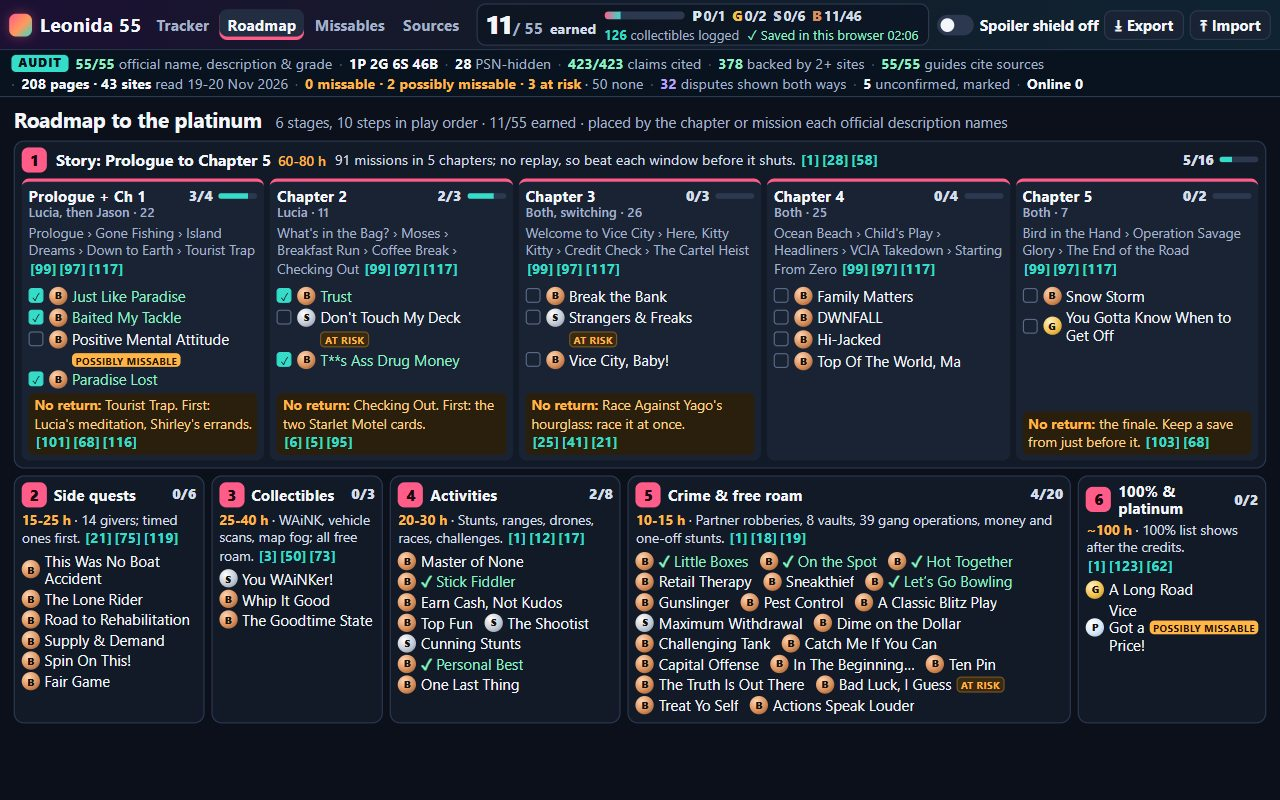
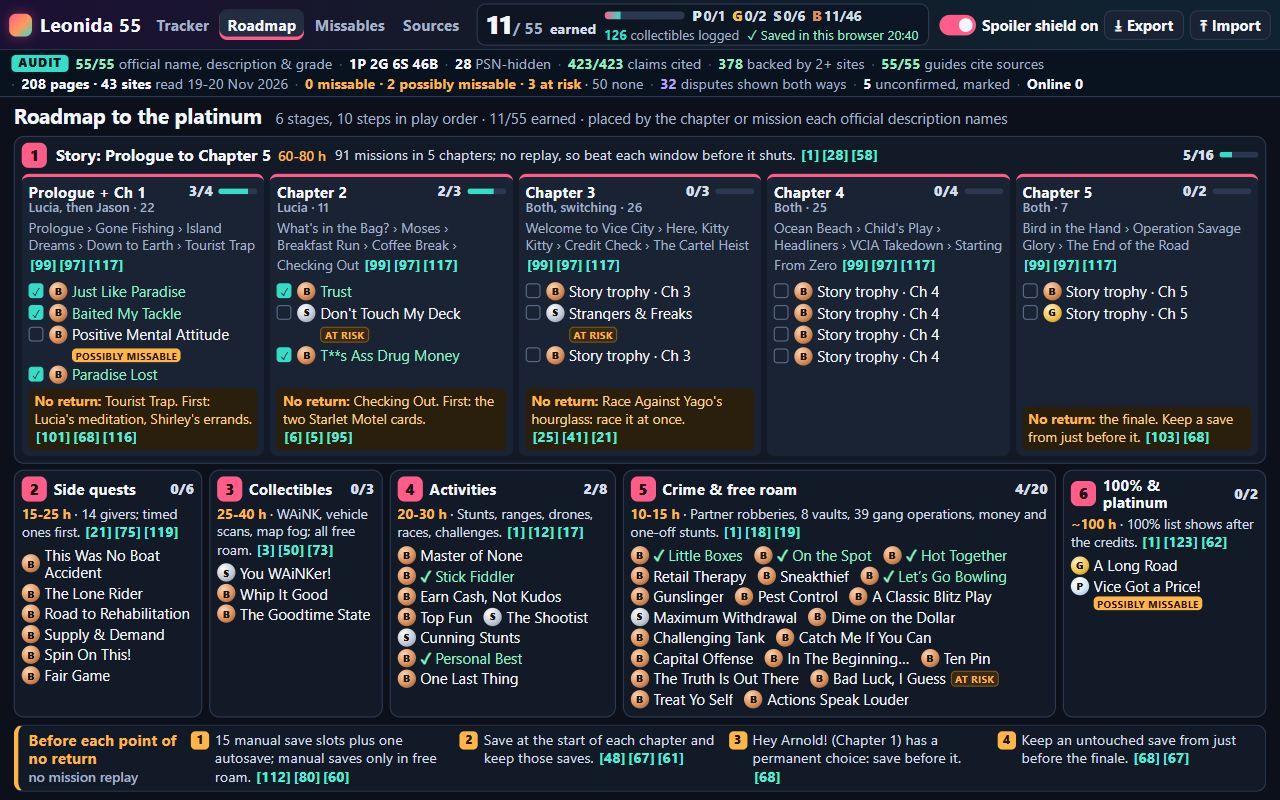
Leonida 55 v5: whole items on every shot, shield on throughout, roadmap and missables fill their frames
- Screenshots: tools/shoot.mjs keeps the spoiler shield on in all 4 shots (and
  fails if it is off), and ends every pane on a complete item: a row, step,
  card or matrix row the bottom edge would cut is left out and the spare
  height is shared between the items that remain.
- Cover: 8 list rows, 6 whole guide steps and 4 whole source cards (columns
  344/1fr/232, tighter guide spacing); "N src" tags and [n] marks brighter and
  readable at 768x480.
- Roadmap: shield on (later story trophies show as placeholders); the
  100% & platinum card is wider and puts the platinum's badge on its own line;
  a cited "Before each point of no return" strip fills the bottom.
- Missables: compact timeline sized to its content, the optional call shown
  in full as a quoted title, quiet chapters say no trophy window closes there,
  and the save plan sits in the card grid so both card rows are whole.
- Sources: a legend explains the matrix columns (trophies #1-#55 in roadmap
  order, hover for the name), rows and dots; wider site-name column.
- Smoke test: 63 checks (shield on in every shot, the roadmap strip, the
  full optional call title, the save plan cell, the matrix legend).

diff --git a/app/css/app.css b/app/css/app.css
@@ -122,17 +122,17 @@ h2, h3, h4 { margin: 0; }
 .badge.cited { background: #0f3330; color: #8ff0c4; border: 1px solid #1f6158; }
 .tag { font-style: normal; font-size: 11px; color: var(--soft); background: var(--panel-3); border-radius: 4px; padding: 0 5px; white-space: nowrap; }
 .tag.count { color: var(--teal); font-weight: 700; }
-.tag.src { color: #8ff0c4; }
+.tag.src { color: #b4ffe0; background: #124038; border: 1px solid #23735f; font-weight: 700; font-size: 11.5px; }
 .cites { white-space: nowrap; }
 .cite {
-  background: none; border: 0; padding: 0 1px; color: var(--teal); font-weight: 700; font-size: 12.5px; cursor: pointer;
+  background: none; border: 0; padding: 0 1px; color: #4ff0da; font-weight: 750; font-size: 12.5px; cursor: pointer;
 }
 .cite:hover { text-decoration: underline; }
 
 /* Tracker: three panes */
 #app { flex: 1; min-height: 0; }
 .view { height: 100%; }
-.three-pane { display: grid; grid-template-columns: 348px minmax(0, 1fr) 240px; }
+.three-pane { display: grid; grid-template-columns: 344px minmax(0, 1fr) 232px; }
 #list-pane { display: flex; flex-direction: column; min-height: 0; border-right: 1px solid var(--line); background: var(--panel); }
 #filters { padding: 5px 7px 5px; border-bottom: 1px solid var(--line); display: grid; grid-template-columns: minmax(0, 1fr); gap: 3px; background: #101827; }
 .chip-row { display: flex; flex-wrap: wrap; gap: 3px; align-items: center; }
@@ -191,8 +191,8 @@ h2, h3, h4 { margin: 0; }
 .empty { padding: 16px; color: var(--muted); }
 
 /* Guide pane */
-#guide-panel { overflow-y: auto; padding: 7px 11px 14px; min-height: 0; }
-.guide-head { display: grid; grid-template-columns: 30px 1fr auto; gap: 3px 9px; align-items: start; padding-bottom: 5px; }
+#guide-panel { overflow-y: auto; padding: 5px 11px 14px; min-height: 0; }
+.guide-head { display: grid; grid-template-columns: 30px 1fr auto; gap: 2px 9px; align-items: start; padding-bottom: 3px; }
 .guide-head > .medal { margin-top: 2px; }
 .guide-head > .medal { width: 30px; height: 30px; font-size: 14px; }
 .guide-title h2 { font-size: 20px; line-height: 1.15; }
@@ -200,7 +200,7 @@ h2, h3, h4 { margin: 0; }
 .earned-controls { display: flex; flex-direction: column; align-items: stretch; gap: 4px; }
 .earn-button { background: var(--panel-3); color: var(--text); border: 1px solid var(--line); border-radius: 7px; padding: 3px 10px; font-weight: 700; font-size: 13px; }
 .earn-button.on { background: #14453c; border-color: var(--teal); color: #8ff0c4; }
-.counter { grid-column: 2 / 4; display: flex; align-items: center; gap: 6px; font-size: 13px; color: var(--soft); background: #0f2a2a; border: 1px solid #1f6158; border-radius: 7px; padding: 2px 8px; }
+.counter { grid-column: 2 / 4; display: flex; align-items: center; gap: 6px; font-size: 13px; color: var(--soft); background: #0f2a2a; border: 1px solid #1f6158; border-radius: 7px; padding: 1px 8px; }
 .counter-label { font-size: 11px; font-weight: 800; text-transform: uppercase; letter-spacing: .07em; color: #8ff0c4; }
 .counter-value b { color: var(--teal); font-size: 16px; }
 .counter button { width: 21px; height: 21px; border-radius: 5px; border: 1px solid #1f6158; background: var(--panel-2); color: var(--text); padding: 0; line-height: 1; font-weight: 800; }
@@ -214,7 +214,7 @@ h2, h3, h4 { margin: 0; }
 .official-box h3 small, .note h3 small, .how-to h3 small { text-transform: none; letter-spacing: 0; font-weight: 500; font-size: 12px; color: var(--muted); }
 .official { margin: 0; font-size: 15px; font-weight: 600; color: var(--text); line-height: 1.3; }
 .badges { display: flex; flex-wrap: wrap; gap: 3px 4px; margin: 3px 0 0; }
-.note { border-radius: 7px; padding: 4px 9px 5px; margin-top: 5px; border: 1px solid var(--line); font-size: 13.5px; line-height: 1.32; }
+.note { border-radius: 7px; padding: 4px 9px 5px; margin-top: 4px; border: 1px solid var(--line); font-size: 13.5px; line-height: 1.32; }
 .note p { margin: 1px 0 0; }
 .note.window.missable { background: #2a1214; border-color: #8a3a35; }
 .note.window.missable h3 { color: #ff9b91; }
@@ -228,9 +228,9 @@ h2, h3, h4 { margin: 0; }
 .side i { font-style: normal; font-weight: 800; color: #1a1430; background: var(--violet); border-radius: 3px; padding: 0 4px; margin-right: 5px; font-size: 11px; }
 .call b { color: var(--violet); }
 .note.unconfirmed { background: #182030; border-style: dashed; }
-.how-to { margin-top: 6px; }
+.how-to { margin-top: 4px; }
 .steps { margin: 4px 0 0; padding: 0; list-style: none; counter-reset: step; }
-.steps li { counter-increment: step; position: relative; padding: 2px 0 2px 25px; border-bottom: 1px solid #1d2739; font-size: 13.5px; line-height: 1.32; }
+.steps li { counter-increment: step; position: relative; padding: 1.5px 0 1.5px 25px; border-bottom: 1px solid #1d2739; font-size: 13.5px; line-height: 1.32; }
 .steps li::before {
   content: counter(step); position: absolute; left: 0; top: 3px; width: 18px; height: 18px; border-radius: 50%;
   background: var(--accent); color: #1a0710; font-weight: 800; font-size: 11.5px; display: grid; place-items: center;
@@ -263,8 +263,8 @@ h2, h3, h4 { margin: 0; }
 }
 
 /* Shared view header */
-.view:not(.three-pane) { overflow-y: auto; padding: 8px 12px 16px; }
-.view-head { display: flex; align-items: baseline; gap: 12px; margin-bottom: 5px; }
+.view:not(.three-pane) { overflow-y: auto; padding: 5px 12px 16px; }
+.view-head { display: flex; align-items: baseline; gap: 12px; margin-bottom: 4px; }
 .view-head h2 { font-size: 18px; white-space: nowrap; }
 .view-head p { margin: 0; color: var(--muted); font-size: 13px; }
 
@@ -287,7 +287,7 @@ h2, h3, h4 { margin: 0; }
 .missions { margin: 0; font-size: 12px; color: var(--muted); line-height: 1.3; }
 .chapter-warn { margin: auto 0 0; font-size: 12px; color: #ffd08a; line-height: 1.3; background: #2a1e0d; border-radius: 5px; padding: 3px 5px; }
 .chapter-warn b { color: var(--warn); }
-.stage-cols { list-style: none; margin: 6px 0 0; padding: 0; display: grid; grid-template-columns: 1.04fr 0.94fr 1.26fr 2.42fr 0.86fr; gap: 6px; align-items: stretch; }
+.stage-cols { list-style: none; margin: 5px 0 0; padding: 0; display: grid; grid-template-columns: 1fr 0.92fr 1.2fr 2.3fr 1.08fr; gap: 6px; align-items: stretch; }
 .stage-col { background: var(--panel); border: 1px solid var(--line); border-radius: var(--radius); padding: 5px 6px 6px; }
 .stage-col header { display: grid; grid-template-columns: 22px 1fr auto; gap: 6px; align-items: center; }
 .stage-col h3 { white-space: nowrap; overflow: hidden; line-height: 1.15; }
@@ -295,6 +295,10 @@ h2, h3, h4 { margin: 0; }
 .road-trophies { list-style: none; margin: 3px 0 0; padding: 0; display: grid; gap: 1px; }
 .stage-col .road-trophies { display: flex; flex-wrap: wrap; gap: 0 10px; }
 .stage-col .road-trophies li { flex: none; max-width: 100%; }
+/* The last card is narrow: a flagged trophy keeps its name on one line and its badge on the next, under the name. */
+.stage-col:last-child .road-trophies li:has(.badge) { display: grid; grid-template-columns: 16px minmax(0, 1fr); column-gap: 4px; row-gap: 1px; }
+.stage-col:last-child .road-trophies li:has(.badge) .badge { grid-column: 2; justify-self: start; }
+.stage-col:last-child .road-trophies .road-name { white-space: normal; }
 .stage-col .road-name { flex: 0 1 auto; white-space: nowrap; overflow: hidden; text-overflow: ellipsis; }
 .road-trophies .road-name { white-space: normal; flex: 1 1 0; line-height: 1.2; }
 .stage-col .tick { display: none; }
@@ -314,15 +318,17 @@ h2, h3, h4 { margin: 0; }
 li.earned .tick { background: var(--teal); border-color: var(--teal); }
 
 /* Missables */
-.timeline { list-style: none; margin: 0 0 7px; padding: 0; display: grid; grid-template-columns: repeat(6, 1fr); gap: 4px; }
-.timeline li { background: var(--panel); border: 1px solid var(--line); border-top: 3px solid var(--line); border-radius: 6px; padding: 4px 6px; min-height: 66px; display: flex; flex-direction: column; gap: 3px; }
+.timeline { list-style: none; margin: 0 0 7px; padding: 0; display: grid; grid-template-columns: 1.7fr 1fr 1fr 1fr 1fr 1fr; gap: 4px; align-items: stretch; }
+.timeline li { background: var(--panel); border: 1px solid var(--line); border-top: 3px solid var(--line); border-radius: 6px; padding: 4px 6px; display: flex; flex-wrap: wrap; align-content: flex-start; gap: 3px; }
+.timeline li > b, .timeline li > small { flex: 1 0 100%; }
 .timeline li.has { border-top-color: var(--warn); }
 .timeline b { font-size: 12.5px; color: var(--soft); }
-.pin { font-size: 11.5px; font-weight: 700; padding: 1px 5px; border-radius: 4px; line-height: 1.25; }
+.pin { font-size: 11.5px; font-weight: 700; padding: 1px 5px; border-radius: 4px; line-height: 1.25; max-width: 100%; }
+.pin i { font-style: normal; color: var(--muted); font-size: 10.5px; text-transform: uppercase; letter-spacing: .03em; }
 .pin.missable { background: var(--danger); color: #1b0606; }
 .pin.possible { background: var(--warn); color: #231502; }
 .pin.risk { background: #3b2a12; color: var(--warn); border: 1px solid #7a5520; }
-.pin.other { background: var(--panel-3); color: var(--muted); font-weight: 500; }
+.pin.other { background: var(--panel-3); color: var(--soft); font-weight: 500; }
 .pin .cite { font-size: 10.5px; }
 .missable-grid { display: grid; grid-template-columns: repeat(3, minmax(0, 1fr)); gap: 7px; }
 .missable-card { background: var(--panel); border: 1px solid var(--line); border-left: 4px solid var(--warn); border-radius: 8px; padding: 6px 9px; cursor: pointer; }
@@ -337,15 +343,17 @@ li.earned .tick { background: var(--teal); border-color: var(--teal); }
 .missable-card dd.ponr { color: #ffd08a; }
 .ponr-note { margin-top: auto; font-size: 11.5px; line-height: 1.25; color: #ffd08a; }
 .ponr-note.safe { color: #8ff0c4; }
-.missable-foot { display: grid; grid-template-columns: 1.15fr 1fr; gap: 8px; margin-top: 8px; }
+.ponr-note.quiet { color: var(--muted); margin-top: 0; }
 .safe-list, .save-plan { background: var(--panel); border: 1px solid var(--line); border-radius: 8px; padding: 6px 9px; }
-.safe-list { border-left: 4px solid var(--teal); }
+.safe-list { border-left: 4px solid var(--teal); margin-top: 7px; }
+.safe-list ul { grid-template-columns: 1fr 1fr; column-gap: 14px; }
 .safe-list h3, .save-plan h3 { font-size: 13.5px; display: flex; gap: 8px; align-items: baseline; margin-bottom: 3px; }
 .safe-list h3 small, .save-plan h3 small { color: var(--muted); font-weight: 500; font-size: 12px; }
 .safe-list ul { list-style: none; margin: 0; padding: 0; display: grid; gap: 2px; }
 .safe-list li { font-size: 13px; line-height: 1.3; color: var(--soft); cursor: pointer; }
 .safe-list li .medal { width: 16px; height: 16px; font-size: 9px; margin-right: 4px; vertical-align: -3px; }
 .safe-list li b { color: #8ff0c4; }
+.missable-grid .save-plan { border-left: 4px solid var(--teal); }
 .save-plan ol { margin: 0; padding-left: 18px; display: grid; gap: 2px; font-size: 13px; line-height: 1.3; color: var(--soft); }
 
 /* Sources */
@@ -354,10 +362,12 @@ li.earned .tick { background: var(--teal); border-color: var(--teal); }
 .total b { font-size: 19px; color: #8ff0c4; line-height: 1.1; }
 .total span { font-size: 12.5px; font-weight: 650; }
 .total small { font-size: 11.5px; color: var(--muted); }
+.matrix-legend { margin: 0 0 4px; font-size: 12.5px; color: var(--muted); }
+.matrix-legend b { color: var(--soft); }
 .matrix-wrap { border: 1px solid var(--line); border-radius: 8px; overflow: hidden; background: var(--panel); }
 .matrix { border-collapse: collapse; width: 100%; table-layout: fixed; }
 .matrix th, .matrix td { padding: 0; text-align: center; }
-.matrix .src-col { width: 122px; text-align: left; padding: 0 6px; font-size: 12.5px; white-space: nowrap; overflow: hidden; text-overflow: ellipsis; }
+.matrix .src-col { width: 138px; text-align: left; padding: 0 6px; font-size: 12.5px; white-space: nowrap; overflow: hidden; text-overflow: ellipsis; }
 .matrix .num-col { width: 104px; font-size: 12px; color: var(--muted); white-space: nowrap; }
 .matrix .num-col b { color: var(--text); }
 .matrix thead th { font-size: 9px; color: var(--muted); padding: 3px 0; border-bottom: 1px solid var(--line); }
@@ -384,3 +394,11 @@ li.earned .tick { background: var(--teal); border-color: var(--teal); }
 .steps li.multi::before { background: var(--teal); color: #06221d; }
 .multi-key { color: #8ff0c4; font-weight: 700; }
 .multi-key::before { content: ""; display: inline-block; width: 9px; height: 9px; border-radius: 50%; background: var(--teal); margin-right: 4px; }
+
+/* Roadmap: the save routine strip under the stages */
+.road-checklist { display: grid; grid-template-columns: 132px minmax(0, 1fr); gap: 10px; align-items: start; margin-top: 6px; background: var(--panel); border: 1px solid var(--line); border-left: 4px solid var(--warn); border-radius: var(--radius); padding: 4px 9px 5px; }
+.road-checklist h3 { font-size: 13.5px; display: flex; flex-direction: column; gap: 1px; line-height: 1.2; color: var(--warn); }
+.road-checklist h3 small { color: var(--muted); font-weight: 500; font-size: 12px; }
+.road-checklist ol { margin: 0; padding: 0; list-style: none; counter-reset: save; display: grid; grid-template-columns: repeat(4, minmax(0, 1fr)); gap: 10px; }
+.road-checklist li { counter-increment: save; position: relative; padding-left: 21px; font-size: 12.5px; line-height: 1.28; color: var(--soft); }
+.road-checklist li::before { content: counter(save); position: absolute; left: 0; top: 1px; width: 16px; height: 16px; border-radius: 4px; background: var(--warn); color: #231502; font-weight: 800; font-size: 10.5px; display: grid; place-items: center; }

diff --git a/app/js/missables-view.js b/app/js/missables-view.js
@@ -1,6 +1,6 @@
 // The missables view: a timeline of points of no return by chapter, one card per missable, possibly missable or
 // at-risk trophy (why, point of no return, what to do first, all cited), then the trophies checked and found safe and
-// the save plan that protects every window. Loaded on demand by import().
+// the save plan that protects every window (beside the cards). Loaded on demand by import().
 import { h } from './dom.js';
 import { displayName, displayDescription } from './spoilers.js';
 import { renderCiteMarks, renderMedal } from './citations.js';
@@ -22,13 +22,15 @@ export function renderMissablesView(root, ctx) {
       h('p', null, `${flagged.length} flagged: ${count('missable')} missable, ${count('possible')} possibly missable, ${count('risk')} at risk; the other ${data.trophies.length - flagged.length} checked and none. `,
         intro.text, ' ', renderCiteMarks(intro.cite, ctx))),
     renderMissableTimeline(flagged, ctx),
-    h('div', { class: 'missable-grid' }, flagged.map((t) => renderMissableCard(t, ctx))),
-    h('div', { class: 'missable-foot' },
-      renderSafeList(ctx),
-      h('section', { class: 'save-plan' },
-        h('h3', null, 'Save plan', h('small', null, 'no mission replay, no New Game+')),
-        h('ol', null, (data.roadmap.savePlan ?? []).map((p) => h('li', null, p.text, ' ', renderCiteMarks(p.cite, ctx)))))),
+    h('div', { class: 'missable-grid' }, flagged.map((t) => renderMissableCard(t, ctx)), renderSavePlan(ctx)),
+    renderSafeList(ctx),
   );
+}
+
+function renderSavePlan(ctx) {
+  return h('section', { class: 'save-plan' },
+    h('h3', null, 'Save plan', h('small', null, 'no mission replay, no New Game+')),
+    h('ol', null, (ctx.data.roadmap.savePlan ?? []).map((p) => h('li', null, p.text, ' ', renderCiteMarks(p.cite, ctx)))));
 }
 
 function renderMissableTimeline(flagged, ctx) {
@@ -41,9 +43,11 @@ function renderMissableTimeline(flagged, ctx) {
     return h('li', { class: here.length ? 'has' : '' },
       h('b', null, label),
       here.map((t) => h('span', { class: `pin ${t.missable.level}` }, displayName(t, ctx.store))),
-      otherMissables.filter((m) => m.ch === i).map((m) => h('span', { class: 'pin other', title: 'Time-limited; no trophy needs it' }, m.name, ' ', renderCiteMarks(m.cite, ctx))),
+      otherMissables.filter((m) => m.ch === i).map((m) => h('span', { class: 'pin other', title: 'Time-limited; no trophy needs it' },
+        m.kind ? [h('i', null, `${m.kind} `), `“${m.name}”`] : m.name, ' ', renderCiteMarks(m.cite, ctx))),
       group?.ponr && h('small', { class: 'ponr-note' }, 'No return: ', group.ponr.text),
-      i === 6 && h('small', { class: 'ponr-note safe' }, 'Free roam resumes before the finale; everything else stays open.'));
+      i === 6 && h('small', { class: 'ponr-note safe' }, 'Free roam resumes before the finale; everything else stays open.'),
+      !here.length && !group?.ponr && i !== 6 && h('small', { class: 'ponr-note quiet' }, 'No trophy window closes here.'));
   }).filter(Boolean));
 }
 

diff --git a/app/js/sources-view.js b/app/js/sources-view.js
@@ -37,7 +37,7 @@ export function renderSourceMatrix(root, ctx) {
   root.replaceChildren(
     h('header', { class: 'view-head' },
       h('h2', null, 'Sources & citation matrix'),
-      h('p', null, `${s.pages} pages from ${s.sites} sites, each fetched and read ${data.readOn}; facts rewritten in our own words. A dot: that guide cites the site (brighter = more claims). Columns in roadmap order.`)),
+      h('p', null, `${s.pages} pages from ${s.sites} sites, each fetched and read ${data.readOn}; facts rewritten in our own words. A dot: that guide cites the site (brighter = more claims).`)),
     h('div', { class: 'totals' },
       total('claims cited', `${s.claimsCited}/${s.claims}`, 'every numbered step'),
       total('backed by 2+ sites', s.claimsMulti, `${Math.round((s.claimsMulti / s.claims) * 100)}% of claims`),
@@ -45,6 +45,9 @@ export function renderSourceMatrix(root, ctx) {
       total('guides cite sources', `${s.guidesCited}/${s.total}`, 'none uncited'),
       total('disputes shown', s.disputes, `in ${s.disputedTrophies} guides, both sides`),
       total('unconfirmed', s.unconfirmed, 'marked, not guessed')),
+    h('p', { class: 'matrix-legend' },
+      h('b', null, 'Columns:'), ` trophies #1-#${data.trophies.length} (official list number) in roadmap order; hover a number for the name. `,
+      h('b', null, 'Rows:'), ` the ${sites.length} cited sites, most guides first. `, h('b', null, 'Dot:'), ' that guide cites the site, brighter for more claims.'),
     h('div', { class: 'matrix-wrap' },
       h('table', { class: 'matrix' },
         h('thead', null, h('tr', null,

diff --git a/app/js/roadmap-view.js b/app/js/roadmap-view.js
@@ -18,7 +18,16 @@ export function renderRoadmapView(root, ctx) {
       renderStageBand(data.roadmap.stages[0], groupsOf(1), ctx),
       h('ol', { class: 'chapter-cols' }, groupsOf(1).map((g) => renderChapterColumn(g, ctx)))),
     h('ol', { class: 'stage-cols' }, data.roadmap.stages.slice(1).map((s) => renderStageColumn(s, groupsOf(s.id), ctx))),
+    renderSaveChecklist(ctx),
   );
+}
+
+// The cited save routine that keeps every window open (the save plan's steps marked beforeNoReturn), as a strip
+// under the stages.
+function renderSaveChecklist(ctx) {
+  return h('section', { class: 'road-checklist' },
+    h('h3', null, 'Before each point of no return', h('small', null, 'no mission replay')),
+    h('ol', null, (ctx.data.roadmap.savePlan ?? []).filter((p) => p.beforeNoReturn).map((p) => h('li', null, p.text, ' ', renderCiteMarks(p.cite, ctx)))));
 }
 
 function trophiesIn(groups, ctx) {

diff --git a/README.md b/README.md
@@ -16,7 +16,7 @@ node serve.ts   # then open the printed address (static files, no build step, wo
 
 - `app/`: the guide. `index.html`, `css/app.css`, `js/*.js` (one job per module; roadmap, missables and sources views load on demand), `data/trophies.json` (official list + guides, each step's citations), `data/sources.tsv` (the 208 cited pages, one a line), `data/roadmap.json`.
 - `tools/build-data.mjs`: builds `app/data/` from the untouched official list (`tools/official-list.json`) and our guides (`tools/guides.mjs` plus the second-source pass in `tools/backing.mjs`, `tools/sources.mjs` with `tools/sources-added.mjs`, `tools/roadmap.mjs`), refusing any uncited step, one-sided dispute, uncited point of no return or unused page.
-- `tools/shoot.mjs`: takes the 4 screenshots in headless Chrome (1120x700 CSS viewport at scale 8/7, demo progress via `?demo=1`, saved under its own key so it never touches your progress); `tools/smoke-test.mjs`: 54 checks of the tracker in a real browser.
+- `tools/shoot.mjs`: takes the 4 screenshots in headless Chrome (1120x700 CSS viewport at scale 8/7, demo progress via `?demo=1`, saved under its own key so it never touches your progress, spoiler shield on in every shot; each pane ends on a whole row, step or card); `tools/smoke-test.mjs`: 63 checks of the tracker in a real browser.
 - `main.ts`: validates the data, screenshots and offline references, then hands in `app/`, `screenshots/` and `dossier.json`.
 
 ---
